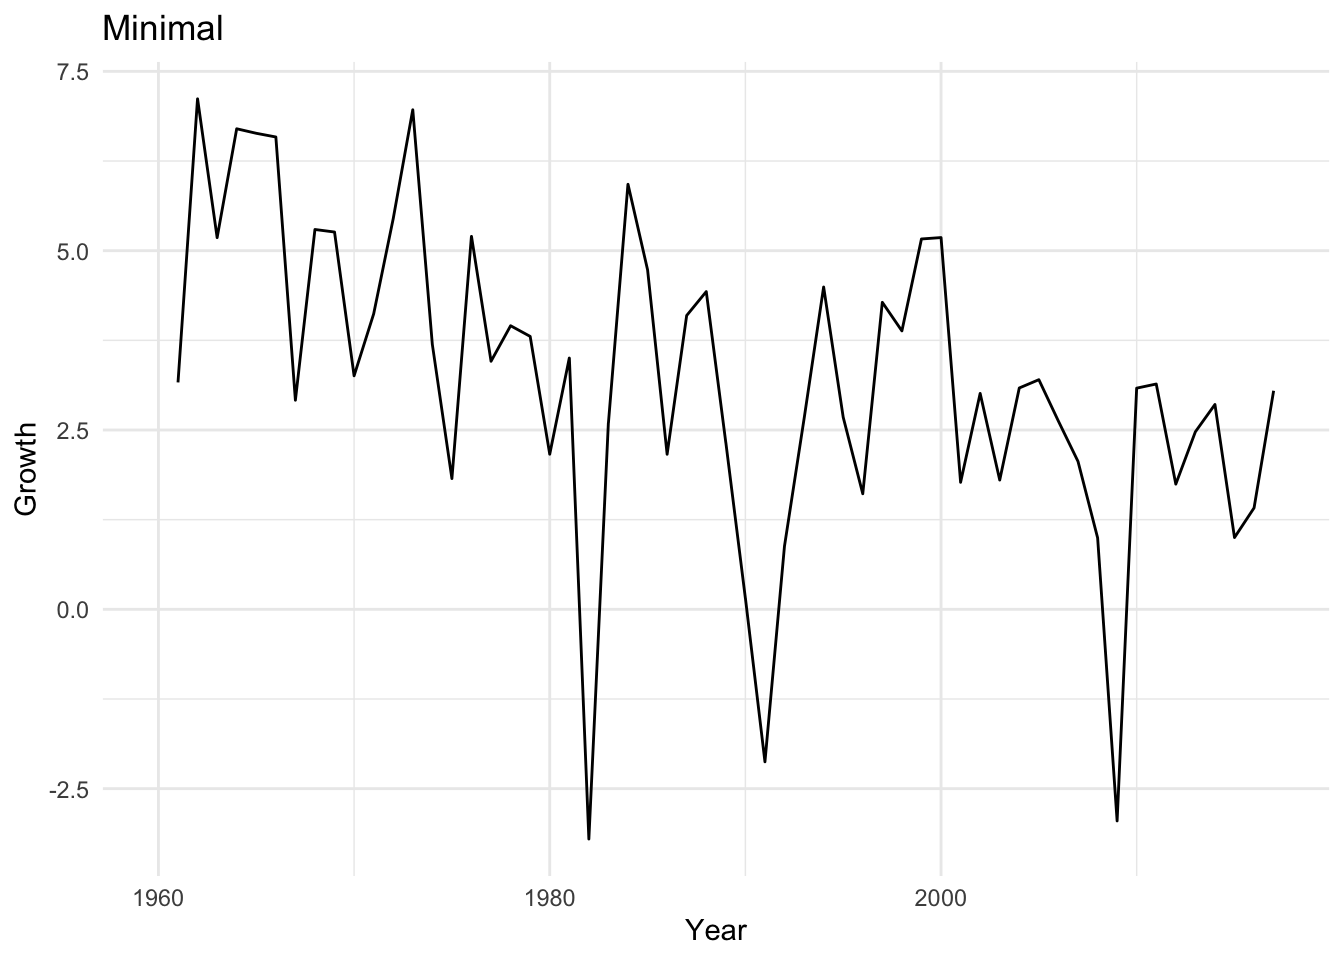
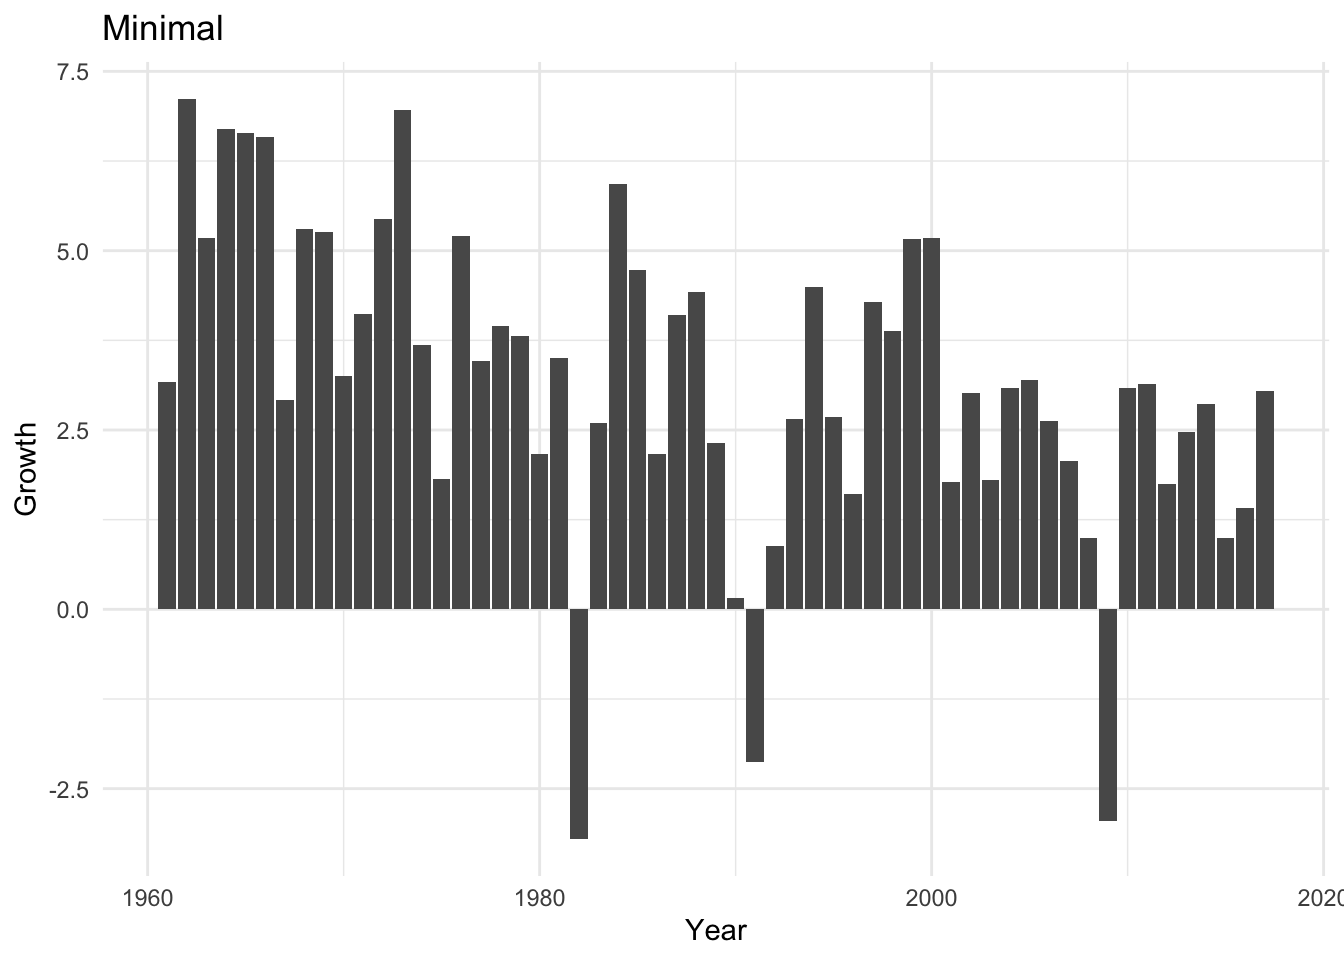
exploring ggplot themes

diff --git a/ggplot_themes.html b/ggplot_themes.html
@@ -109,16 +109,33 @@ pre > code.sourceCode > span > a:first-child::before { text-decoration: underlin
 <section id="first-get-some-data" class="level3">
 <h3 class="anchored" data-anchor-id="first-get-some-data">First, get some data</h3>
 </section>
+<section id="function-to-take-chart-info-and-process-themes" class="level3">
+<h3 class="anchored" data-anchor-id="function-to-take-chart-info-and-process-themes">Function to take chart info and process themes</h3>
+<div class="cell">
+<div class="sourceCode cell-code" id="cb2"><pre class="sourceCode r code-with-copy"><code class="sourceCode r"><span id="cb2-1"><a href="#cb2-1" aria-hidden="true" tabindex="-1"></a><span class="co"># function to take chart info as input, apply themes, return variations with themes</span></span>
+<span id="cb2-2"><a href="#cb2-2" aria-hidden="true" tabindex="-1"></a>chartThemeSampler <span class="ot">&lt;-</span> <span class="cf">function</span>(chart_example) {</span>
+<span id="cb2-3"><a href="#cb2-3" aria-hidden="true" tabindex="-1"></a>  c_dflt <span class="ot">&lt;-</span> chart_example <span class="sc">+</span> <span class="fu">labs</span>(<span class="at">title =</span> <span class="st">"Default (aka Gray/Grey)"</span>)</span>
+<span id="cb2-4"><a href="#cb2-4" aria-hidden="true" tabindex="-1"></a>  c_m <span class="ot">&lt;-</span> chart_example <span class="sc">+</span> <span class="fu">labs</span>(<span class="at">title =</span> <span class="st">"Minimal"</span>) <span class="sc">+</span> <span class="fu">theme_minimal</span>()</span>
+<span id="cb2-5"><a href="#cb2-5" aria-hidden="true" tabindex="-1"></a>  c_l <span class="ot">&lt;-</span> chart_example <span class="sc">+</span> <span class="fu">labs</span>(<span class="at">title =</span> <span class="st">"Light"</span>) <span class="sc">+</span> <span class="fu">theme_light</span>()</span>
+<span id="cb2-6"><a href="#cb2-6" aria-hidden="true" tabindex="-1"></a>  c_drk <span class="ot">&lt;-</span> chart_example <span class="sc">+</span> <span class="fu">labs</span>(<span class="at">title =</span> <span class="st">"Dark"</span>) <span class="sc">+</span> <span class="fu">theme_dark</span>()</span>
+<span id="cb2-7"><a href="#cb2-7" aria-hidden="true" tabindex="-1"></a>  c_c <span class="ot">&lt;-</span> chart_example <span class="sc">+</span> <span class="fu">labs</span>(<span class="at">title =</span> <span class="st">"Classic"</span>) <span class="sc">+</span> <span class="fu">theme_classic</span>()</span>
+<span id="cb2-8"><a href="#cb2-8" aria-hidden="true" tabindex="-1"></a>  c_bw <span class="ot">&lt;-</span> chart_example <span class="sc">+</span> <span class="fu">labs</span>(<span class="at">title =</span> <span class="st">"BW"</span>) <span class="sc">+</span> <span class="fu">theme_bw</span>()</span>
+<span id="cb2-9"><a href="#cb2-9" aria-hidden="true" tabindex="-1"></a>  <span class="fu">return</span>(<span class="fu">list</span>(c_dflt, c_m, c_l, c_drk, c_c, c_bw))</span>
+<span id="cb2-10"><a href="#cb2-10" aria-hidden="true" tabindex="-1"></a>}</span></code><button title="Copy to Clipboard" class="code-copy-button"><i class="bi"></i></button></pre></div>
+</div>
+</section>
 </section>
 <section id="histograms" class="level2">
 <h2 class="anchored" data-anchor-id="histograms">Histograms</h2>
+<p>Using histogram as example to show general look/feel of different themes.</p>
+<p>Separated here with headings for clarity. Subsequent sections theme is noted in chart title.</p>
 <div class="cell">
-<div class="sourceCode cell-code" id="cb2"><pre class="sourceCode r code-with-copy"><code class="sourceCode r"><span id="cb2-1"><a href="#cb2-1" aria-hidden="true" tabindex="-1"></a>c1 <span class="ot">&lt;-</span> chart_data_select <span class="sc">%&gt;%</span> <span class="fu">ggplot</span>(<span class="fu">aes</span>(<span class="at">x=</span>GDP_per_cap))<span class="sc">+</span><span class="fu">geom_histogram</span>()</span></code><button title="Copy to Clipboard" class="code-copy-button"><i class="bi"></i></button></pre></div>
+<div class="sourceCode cell-code" id="cb3"><pre class="sourceCode r code-with-copy"><code class="sourceCode r"><span id="cb3-1"><a href="#cb3-1" aria-hidden="true" tabindex="-1"></a>c1 <span class="ot">&lt;-</span> chart_data_select <span class="sc">%&gt;%</span> <span class="fu">ggplot</span>(<span class="fu">aes</span>(<span class="at">x=</span>GDP_per_cap))<span class="sc">+</span><span class="fu">geom_histogram</span>()</span></code><button title="Copy to Clipboard" class="code-copy-button"><i class="bi"></i></button></pre></div>
 </div>
-<section id="default-chart-gray-or-grey" class="level3">
-<h3 class="anchored" data-anchor-id="default-chart-gray-or-grey">Default Chart (Gray or Grey)</h3>
+<section id="default-chart-aka-graygrey" class="level3">
+<h3 class="anchored" data-anchor-id="default-chart-aka-graygrey">Default Chart (aka Gray/Grey)</h3>
 <div class="cell">
-<div class="sourceCode cell-code" id="cb3"><pre class="sourceCode r code-with-copy"><code class="sourceCode r"><span id="cb3-1"><a href="#cb3-1" aria-hidden="true" tabindex="-1"></a>c1</span></code><button title="Copy to Clipboard" class="code-copy-button"><i class="bi"></i></button></pre></div>
+<div class="sourceCode cell-code" id="cb4"><pre class="sourceCode r code-with-copy"><code class="sourceCode r"><span id="cb4-1"><a href="#cb4-1" aria-hidden="true" tabindex="-1"></a>c1</span></code><button title="Copy to Clipboard" class="code-copy-button"><i class="bi"></i></button></pre></div>
 <div class="cell-output-display">
 <div>
 <figure class="figure">
@@ -131,7 +148,7 @@ pre > code.sourceCode > span > a:first-child::before { text-decoration: underlin
 <section id="minimal" class="level3">
 <h3 class="anchored" data-anchor-id="minimal">Minimal</h3>
 <div class="cell">
-<div class="sourceCode cell-code" id="cb4"><pre class="sourceCode r code-with-copy"><code class="sourceCode r"><span id="cb4-1"><a href="#cb4-1" aria-hidden="true" tabindex="-1"></a>c1 <span class="sc">+</span> <span class="fu">theme_minimal</span>()</span></code><button title="Copy to Clipboard" class="code-copy-button"><i class="bi"></i></button></pre></div>
+<div class="sourceCode cell-code" id="cb5"><pre class="sourceCode r code-with-copy"><code class="sourceCode r"><span id="cb5-1"><a href="#cb5-1" aria-hidden="true" tabindex="-1"></a>c1 <span class="sc">+</span> <span class="fu">theme_minimal</span>()</span></code><button title="Copy to Clipboard" class="code-copy-button"><i class="bi"></i></button></pre></div>
 <div class="cell-output-display">
 <div>
 <figure class="figure">
@@ -144,7 +161,7 @@ pre > code.sourceCode > span > a:first-child::before { text-decoration: underlin
 <section id="light" class="level3">
 <h3 class="anchored" data-anchor-id="light">Light</h3>
 <div class="cell">
-<div class="sourceCode cell-code" id="cb5"><pre class="sourceCode r code-with-copy"><code class="sourceCode r"><span id="cb5-1"><a href="#cb5-1" aria-hidden="true" tabindex="-1"></a>c1 <span class="sc">+</span> <span class="fu">theme_light</span>()</span></code><button title="Copy to Clipboard" class="code-copy-button"><i class="bi"></i></button></pre></div>
+<div class="sourceCode cell-code" id="cb6"><pre class="sourceCode r code-with-copy"><code class="sourceCode r"><span id="cb6-1"><a href="#cb6-1" aria-hidden="true" tabindex="-1"></a>c1 <span class="sc">+</span> <span class="fu">theme_light</span>()</span></code><button title="Copy to Clipboard" class="code-copy-button"><i class="bi"></i></button></pre></div>
 <div class="cell-output-display">
 <div>
 <figure class="figure">
@@ -157,7 +174,7 @@ pre > code.sourceCode > span > a:first-child::before { text-decoration: underlin
 <section id="dark" class="level3">
 <h3 class="anchored" data-anchor-id="dark">Dark</h3>
 <div class="cell">
-<div class="sourceCode cell-code" id="cb6"><pre class="sourceCode r code-with-copy"><code class="sourceCode r"><span id="cb6-1"><a href="#cb6-1" aria-hidden="true" tabindex="-1"></a>c1 <span class="sc">+</span> <span class="fu">theme_dark</span>()</span></code><button title="Copy to Clipboard" class="code-copy-button"><i class="bi"></i></button></pre></div>
+<div class="sourceCode cell-code" id="cb7"><pre class="sourceCode r code-with-copy"><code class="sourceCode r"><span id="cb7-1"><a href="#cb7-1" aria-hidden="true" tabindex="-1"></a>c1 <span class="sc">+</span> <span class="fu">theme_dark</span>()</span></code><button title="Copy to Clipboard" class="code-copy-button"><i class="bi"></i></button></pre></div>
 <div class="cell-output-display">
 <div>
 <figure class="figure">
@@ -170,7 +187,7 @@ pre > code.sourceCode > span > a:first-child::before { text-decoration: underlin
 <section id="classic" class="level3">
 <h3 class="anchored" data-anchor-id="classic">Classic</h3>
 <div class="cell">
-<div class="sourceCode cell-code" id="cb7"><pre class="sourceCode r code-with-copy"><code class="sourceCode r"><span id="cb7-1"><a href="#cb7-1" aria-hidden="true" tabindex="-1"></a>c1 <span class="sc">+</span> <span class="fu">theme_classic</span>()</span></code><button title="Copy to Clipboard" class="code-copy-button"><i class="bi"></i></button></pre></div>
+<div class="sourceCode cell-code" id="cb8"><pre class="sourceCode r code-with-copy"><code class="sourceCode r"><span id="cb8-1"><a href="#cb8-1" aria-hidden="true" tabindex="-1"></a>c1 <span class="sc">+</span> <span class="fu">theme_classic</span>()</span></code><button title="Copy to Clipboard" class="code-copy-button"><i class="bi"></i></button></pre></div>
 <div class="cell-output-display">
 <div>
 <figure class="figure">
@@ -183,7 +200,7 @@ pre > code.sourceCode > span > a:first-child::before { text-decoration: underlin
 <section id="bw" class="level3">
 <h3 class="anchored" data-anchor-id="bw">BW</h3>
 <div class="cell">
-<div class="sourceCode cell-code" id="cb8"><pre class="sourceCode r code-with-copy"><code class="sourceCode r"><span id="cb8-1"><a href="#cb8-1" aria-hidden="true" tabindex="-1"></a>c1 <span class="sc">+</span> <span class="fu">theme_bw</span>()</span></code><button title="Copy to Clipboard" class="code-copy-button"><i class="bi"></i></button></pre></div>
+<div class="sourceCode cell-code" id="cb9"><pre class="sourceCode r code-with-copy"><code class="sourceCode r"><span id="cb9-1"><a href="#cb9-1" aria-hidden="true" tabindex="-1"></a>c1 <span class="sc">+</span> <span class="fu">theme_bw</span>()</span></code><button title="Copy to Clipboard" class="code-copy-button"><i class="bi"></i></button></pre></div>
 <div class="cell-output-display">
 <div>
 <figure class="figure">
@@ -197,9 +214,87 @@ pre > code.sourceCode > span > a:first-child::before { text-decoration: underlin
 <section id="line-charts" class="level2">
 <h2 class="anchored" data-anchor-id="line-charts">Line Charts</h2>
 <div class="cell">
-<div class="sourceCode cell-code" id="cb9"><pre class="sourceCode r code-with-copy"><code class="sourceCode r"><span id="cb9-1"><a href="#cb9-1" aria-hidden="true" tabindex="-1"></a><span class="co"># set chart for target style</span></span>
-<span id="cb9-2"><a href="#cb9-2" aria-hidden="true" tabindex="-1"></a>chart_example <span class="ot">&lt;-</span> chart_data_single <span class="sc">%&gt;%</span> <span class="fu">ggplot</span>(<span class="fu">aes</span>(<span class="at">x=</span>Year, <span class="at">y=</span>Growth))<span class="sc">+</span><span class="fu">geom_line</span>()</span>
-<span id="cb9-3"><a href="#cb9-3" aria-hidden="true" tabindex="-1"></a>chart_example <span class="sc">+</span> <span class="fu">labs</span>(<span class="at">title =</span> <span class="st">"Default"</span>)</span></code><button title="Copy to Clipboard" class="code-copy-button"><i class="bi"></i></button></pre></div>
+<div class="sourceCode cell-code" id="cb10"><pre class="sourceCode r code-with-copy"><code class="sourceCode r"><span id="cb10-1"><a href="#cb10-1" aria-hidden="true" tabindex="-1"></a><span class="co"># set chart for target style</span></span>
+<span id="cb10-2"><a href="#cb10-2" aria-hidden="true" tabindex="-1"></a>chart_example <span class="ot">&lt;-</span> chart_data_single <span class="sc">%&gt;%</span> <span class="fu">ggplot</span>(<span class="fu">aes</span>(<span class="at">x=</span>Year, <span class="at">y=</span>Growth))<span class="sc">+</span><span class="fu">geom_line</span>()</span>
+<span id="cb10-3"><a href="#cb10-3" aria-hidden="true" tabindex="-1"></a><span class="co"># print charts in different themes</span></span>
+<span id="cb10-4"><a href="#cb10-4" aria-hidden="true" tabindex="-1"></a><span class="fu">chartThemeSampler</span>(chart_example)</span></code><button title="Copy to Clipboard" class="code-copy-button"><i class="bi"></i></button></pre></div>
+<div class="cell-output cell-output-stdout">
+<pre><code>[[1]]</code></pre>
+</div>
+<div class="cell-output-display">
+<div>
+<figure class="figure">
+<p><img src="ggplot_themes_files/figure-html/unnamed-chunk-7-1.png" class="img-fluid figure-img" width="672"></p>
+</figure>
+</div>
+</div>
+<div class="cell-output cell-output-stdout">
+<pre><code>
+[[2]]</code></pre>
+</div>
+<div class="cell-output-display">
+<div>
+<figure class="figure">
+<p><img src="ggplot_themes_files/figure-html/unnamed-chunk-7-2.png" class="img-fluid figure-img" width="672"></p>
+</figure>
+</div>
+</div>
+<div class="cell-output cell-output-stdout">
+<pre><code>
+[[3]]</code></pre>
+</div>
+<div class="cell-output-display">
+<div>
+<figure class="figure">
+<p><img src="ggplot_themes_files/figure-html/unnamed-chunk-7-3.png" class="img-fluid figure-img" width="672"></p>
+</figure>
+</div>
+</div>
+<div class="cell-output cell-output-stdout">
+<pre><code>
+[[4]]</code></pre>
+</div>
+<div class="cell-output-display">
+<div>
+<figure class="figure">
+<p><img src="ggplot_themes_files/figure-html/unnamed-chunk-7-4.png" class="img-fluid figure-img" width="672"></p>
+</figure>
+</div>
+</div>
+<div class="cell-output cell-output-stdout">
+<pre><code>
+[[5]]</code></pre>
+</div>
+<div class="cell-output-display">
+<div>
+<figure class="figure">
+<p><img src="ggplot_themes_files/figure-html/unnamed-chunk-7-5.png" class="img-fluid figure-img" width="672"></p>
+</figure>
+</div>
+</div>
+<div class="cell-output cell-output-stdout">
+<pre><code>
+[[6]]</code></pre>
+</div>
+<div class="cell-output-display">
+<div>
+<figure class="figure">
+<p><img src="ggplot_themes_files/figure-html/unnamed-chunk-7-6.png" class="img-fluid figure-img" width="672"></p>
+</figure>
+</div>
+</div>
+</div>
+</section>
+<section id="column-bar-charts" class="level2">
+<h2 class="anchored" data-anchor-id="column-bar-charts">Column (Bar) Charts</h2>
+<div class="cell">
+<div class="sourceCode cell-code" id="cb17"><pre class="sourceCode r code-with-copy"><code class="sourceCode r"><span id="cb17-1"><a href="#cb17-1" aria-hidden="true" tabindex="-1"></a><span class="co"># set chart for target style</span></span>
+<span id="cb17-2"><a href="#cb17-2" aria-hidden="true" tabindex="-1"></a>chart_example <span class="ot">&lt;-</span> chart_data_single <span class="sc">%&gt;%</span> <span class="fu">ggplot</span>(<span class="fu">aes</span>(<span class="at">x=</span>Year, <span class="at">y=</span>Growth))<span class="sc">+</span><span class="fu">geom_col</span>()</span>
+<span id="cb17-3"><a href="#cb17-3" aria-hidden="true" tabindex="-1"></a><span class="co"># print charts in different themes</span></span>
+<span id="cb17-4"><a href="#cb17-4" aria-hidden="true" tabindex="-1"></a><span class="fu">chartThemeSampler</span>(chart_example)</span></code><button title="Copy to Clipboard" class="code-copy-button"><i class="bi"></i></button></pre></div>
+<div class="cell-output cell-output-stdout">
+<pre><code>[[1]]</code></pre>
+</div>
 <div class="cell-output-display">
 <div>
 <figure class="figure">
@@ -207,7 +302,10 @@ pre > code.sourceCode > span > a:first-child::before { text-decoration: underlin
 </figure>
 </div>
 </div>
-<div class="sourceCode cell-code" id="cb10"><pre class="sourceCode r code-with-copy"><code class="sourceCode r"><span id="cb10-1"><a href="#cb10-1" aria-hidden="true" tabindex="-1"></a>chart_example <span class="sc">+</span> <span class="fu">labs</span>(<span class="at">title =</span> <span class="st">"Minimal"</span>) <span class="sc">+</span> <span class="fu">theme_minimal</span>()</span></code><button title="Copy to Clipboard" class="code-copy-button"><i class="bi"></i></button></pre></div>
+<div class="cell-output cell-output-stdout">
+<pre><code>
+[[2]]</code></pre>
+</div>
 <div class="cell-output-display">
 <div>
 <figure class="figure">
@@ -215,7 +313,10 @@ pre > code.sourceCode > span > a:first-child::before { text-decoration: underlin
 </figure>
 </div>
 </div>
-<div class="sourceCode cell-code" id="cb11"><pre class="sourceCode r code-with-copy"><code class="sourceCode r"><span id="cb11-1"><a href="#cb11-1" aria-hidden="true" tabindex="-1"></a>chart_example <span class="sc">+</span> <span class="fu">labs</span>(<span class="at">title =</span> <span class="st">"Light"</span>) <span class="sc">+</span> <span class="fu">theme_light</span>()</span></code><button title="Copy to Clipboard" class="code-copy-button"><i class="bi"></i></button></pre></div>
+<div class="cell-output cell-output-stdout">
+<pre><code>
+[[3]]</code></pre>
+</div>
 <div class="cell-output-display">
 <div>
 <figure class="figure">
@@ -223,7 +324,10 @@ pre > code.sourceCode > span > a:first-child::before { text-decoration: underlin
 </figure>
 </div>
 </div>
-<div class="sourceCode cell-code" id="cb12"><pre class="sourceCode r code-with-copy"><code class="sourceCode r"><span id="cb12-1"><a href="#cb12-1" aria-hidden="true" tabindex="-1"></a>chart_example <span class="sc">+</span> <span class="fu">labs</span>(<span class="at">title =</span> <span class="st">"Dark"</span>) <span class="sc">+</span> <span class="fu">theme_dark</span>()</span></code><button title="Copy to Clipboard" class="code-copy-button"><i class="bi"></i></button></pre></div>
+<div class="cell-output cell-output-stdout">
+<pre><code>
+[[4]]</code></pre>
+</div>
 <div class="cell-output-display">
 <div>
 <figure class="figure">
@@ -231,7 +335,10 @@ pre > code.sourceCode > span > a:first-child::before { text-decoration: underlin
 </figure>
 </div>
 </div>
-<div class="sourceCode cell-code" id="cb13"><pre class="sourceCode r code-with-copy"><code class="sourceCode r"><span id="cb13-1"><a href="#cb13-1" aria-hidden="true" tabindex="-1"></a>chart_example <span class="sc">+</span> <span class="fu">labs</span>(<span class="at">title =</span> <span class="st">"Classic"</span>) <span class="sc">+</span> <span class="fu">theme_classic</span>()</span></code><button title="Copy to Clipboard" class="code-copy-button"><i class="bi"></i></button></pre></div>
+<div class="cell-output cell-output-stdout">
+<pre><code>
+[[5]]</code></pre>
+</div>
 <div class="cell-output-display">
 <div>
 <figure class="figure">
@@ -239,7 +346,10 @@ pre > code.sourceCode > span > a:first-child::before { text-decoration: underlin
 </figure>
 </div>
 </div>
-<div class="sourceCode cell-code" id="cb14"><pre class="sourceCode r code-with-copy"><code class="sourceCode r"><span id="cb14-1"><a href="#cb14-1" aria-hidden="true" tabindex="-1"></a>chart_example <span class="sc">+</span> <span class="fu">labs</span>(<span class="at">title =</span> <span class="st">"BW"</span>) <span class="sc">+</span> <span class="fu">theme_classic</span>()</span></code><button title="Copy to Clipboard" class="code-copy-button"><i class="bi"></i></button></pre></div>
+<div class="cell-output cell-output-stdout">
+<pre><code>
+[[6]]</code></pre>
+</div>
 <div class="cell-output-display">
 <div>
 <figure class="figure">
@@ -248,15 +358,153 @@ pre > code.sourceCode > span > a:first-child::before { text-decoration: underlin
 </div>
 </div>
 </div>
-</section>
-<section id="bar-charts" class="level2">
-<h2 class="anchored" data-anchor-id="bar-charts">Bar Charts</h2>
-<section id="bar-charts-with-faceting" class="level3">
-<h3 class="anchored" data-anchor-id="bar-charts-with-faceting">Bar Charts with Faceting</h3>
+<section id="column-charts-with-faceting" class="level3">
+<h3 class="anchored" data-anchor-id="column-charts-with-faceting">Column Charts with Faceting</h3>
+<div class="cell">
+<div class="sourceCode cell-code" id="cb24"><pre class="sourceCode r code-with-copy"><code class="sourceCode r"><span id="cb24-1"><a href="#cb24-1" aria-hidden="true" tabindex="-1"></a>chart_example <span class="ot">&lt;-</span> chart_data_select <span class="sc">%&gt;%</span> <span class="fu">filter</span>(Year <span class="sc">&gt;=</span> <span class="dv">2000</span>) <span class="sc">%&gt;%</span></span>
+<span id="cb24-2"><a href="#cb24-2" aria-hidden="true" tabindex="-1"></a>  <span class="fu">ggplot</span>(<span class="fu">aes</span>(<span class="at">x=</span>Year, <span class="at">y=</span>Growth))<span class="sc">+</span><span class="fu">geom_col</span>()<span class="sc">+</span></span>
+<span id="cb24-3"><a href="#cb24-3" aria-hidden="true" tabindex="-1"></a>  <span class="fu">facet_grid</span>(Code<span class="sc">~</span>.)</span>
+<span id="cb24-4"><a href="#cb24-4" aria-hidden="true" tabindex="-1"></a><span class="fu">chartThemeSampler</span>(chart_example)</span></code><button title="Copy to Clipboard" class="code-copy-button"><i class="bi"></i></button></pre></div>
+<div class="cell-output cell-output-stdout">
+<pre><code>[[1]]</code></pre>
+</div>
+<div class="cell-output-display">
+<div>
+<figure class="figure">
+<p><img src="ggplot_themes_files/figure-html/unnamed-chunk-9-1.png" class="img-fluid figure-img" width="672"></p>
+</figure>
+</div>
+</div>
+<div class="cell-output cell-output-stdout">
+<pre><code>
+[[2]]</code></pre>
+</div>
+<div class="cell-output-display">
+<div>
+<figure class="figure">
+<p><img src="ggplot_themes_files/figure-html/unnamed-chunk-9-2.png" class="img-fluid figure-img" width="672"></p>
+</figure>
+</div>
+</div>
+<div class="cell-output cell-output-stdout">
+<pre><code>
+[[3]]</code></pre>
+</div>
+<div class="cell-output-display">
+<div>
+<figure class="figure">
+<p><img src="ggplot_themes_files/figure-html/unnamed-chunk-9-3.png" class="img-fluid figure-img" width="672"></p>
+</figure>
+</div>
+</div>
+<div class="cell-output cell-output-stdout">
+<pre><code>
+[[4]]</code></pre>
+</div>
+<div class="cell-output-display">
+<div>
+<figure class="figure">
+<p><img src="ggplot_themes_files/figure-html/unnamed-chunk-9-4.png" class="img-fluid figure-img" width="672"></p>
+</figure>
+</div>
+</div>
+<div class="cell-output cell-output-stdout">
+<pre><code>
+[[5]]</code></pre>
+</div>
+<div class="cell-output-display">
+<div>
+<figure class="figure">
+<p><img src="ggplot_themes_files/figure-html/unnamed-chunk-9-5.png" class="img-fluid figure-img" width="672"></p>
+</figure>
+</div>
+</div>
+<div class="cell-output cell-output-stdout">
+<pre><code>
+[[6]]</code></pre>
+</div>
+<div class="cell-output-display">
+<div>
+<figure class="figure">
+<p><img src="ggplot_themes_files/figure-html/unnamed-chunk-9-6.png" class="img-fluid figure-img" width="672"></p>
+</figure>
+</div>
+</div>
+</div>
 </section>
 </section>
 <section id="boxplots" class="level2">
 <h2 class="anchored" data-anchor-id="boxplots">Boxplots</h2>
+<div class="cell">
+<div class="sourceCode cell-code" id="cb31"><pre class="sourceCode r code-with-copy"><code class="sourceCode r"><span id="cb31-1"><a href="#cb31-1" aria-hidden="true" tabindex="-1"></a>chart_example <span class="ot">&lt;-</span> chart_data_select <span class="sc">%&gt;%</span> </span>
+<span id="cb31-2"><a href="#cb31-2" aria-hidden="true" tabindex="-1"></a>  <span class="fu">ggplot</span>(<span class="fu">aes</span>(<span class="at">x=</span>Code, <span class="at">y=</span>Growth))<span class="sc">+</span><span class="fu">geom_boxplot</span>()</span>
+<span id="cb31-3"><a href="#cb31-3" aria-hidden="true" tabindex="-1"></a><span class="fu">chartThemeSampler</span>(chart_example)</span></code><button title="Copy to Clipboard" class="code-copy-button"><i class="bi"></i></button></pre></div>
+<div class="cell-output cell-output-stdout">
+<pre><code>[[1]]</code></pre>
+</div>
+<div class="cell-output-display">
+<div>
+<figure class="figure">
+<p><img src="ggplot_themes_files/figure-html/unnamed-chunk-10-1.png" class="img-fluid figure-img" width="672"></p>
+</figure>
+</div>
+</div>
+<div class="cell-output cell-output-stdout">
+<pre><code>
+[[2]]</code></pre>
+</div>
+<div class="cell-output-display">
+<div>
+<figure class="figure">
+<p><img src="ggplot_themes_files/figure-html/unnamed-chunk-10-2.png" class="img-fluid figure-img" width="672"></p>
+</figure>
+</div>
+</div>
+<div class="cell-output cell-output-stdout">
+<pre><code>
+[[3]]</code></pre>
+</div>
+<div class="cell-output-display">
+<div>
+<figure class="figure">
+<p><img src="ggplot_themes_files/figure-html/unnamed-chunk-10-3.png" class="img-fluid figure-img" width="672"></p>
+</figure>
+</div>
+</div>
+<div class="cell-output cell-output-stdout">
+<pre><code>
+[[4]]</code></pre>
+</div>
+<div class="cell-output-display">
+<div>
+<figure class="figure">
+<p><img src="ggplot_themes_files/figure-html/unnamed-chunk-10-4.png" class="img-fluid figure-img" width="672"></p>
+</figure>
+</div>
+</div>
+<div class="cell-output cell-output-stdout">
+<pre><code>
+[[5]]</code></pre>
+</div>
+<div class="cell-output-display">
+<div>
+<figure class="figure">
+<p><img src="ggplot_themes_files/figure-html/unnamed-chunk-10-5.png" class="img-fluid figure-img" width="672"></p>
+</figure>
+</div>
+</div>
+<div class="cell-output cell-output-stdout">
+<pre><code>
+[[6]]</code></pre>
+</div>
+<div class="cell-output-display">
+<div>
+<figure class="figure">
+<p><img src="ggplot_themes_files/figure-html/unnamed-chunk-10-6.png" class="img-fluid figure-img" width="672"></p>
+</figure>
+</div>
+</div>
+</div>
 </section>
 
 </main>
